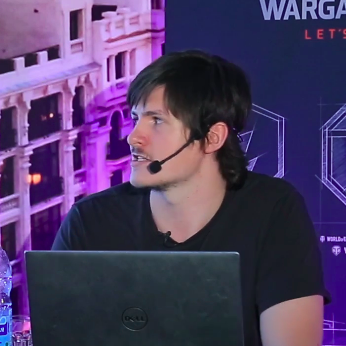
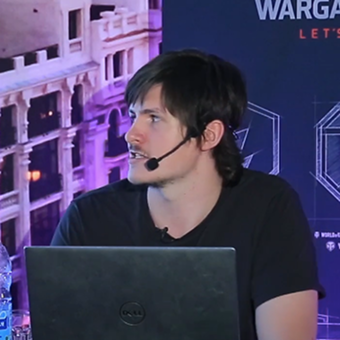
optimize photos

diff --git a/index.html b/index.html
@@ -74,7 +74,7 @@
                 <h2>Meetup Keepers</h2>
                 <div class="three-in-row">
                     <div>
-                        <img src="assets/images/mikalai_saskavets.webp">
+                        <img src="assets/images/mikalai_saskavets.jpg">
                         <span class="keeper-name">Mikalai Saskavets</span>
                         <span class="keeper-role">programm committee member, event moderator</span>
                         <span class="keeper-contacts">
@@ -82,7 +82,7 @@
                         </span>
                     </div>
                     <div>
-                        <img src="assets/images/sergey_khaletskiy.png">
+                        <img src="assets/images/sergey_khaletskiy.jpg">
                         <span class="keeper-name">Sergey Khaletskiy</span>
                         <span class="keeper-role">programm committee member, event moderator</span>
                         <span class="keeper-contacts">
@@ -90,7 +90,7 @@
                         </span>
                     </div>
                     <div>
-                        <img src="assets/images/andrei_sviridov.png">
+                        <img src="assets/images/andrei_sviridov.jpg">
                         <span class="keeper-name">Andrei Sviridov</span>
                         <span class="keeper-role">programm committee member, event moderator</span>
                         <span class="keeper-contacts">
@@ -98,7 +98,7 @@
                         </span>
                     </div>
                     <div>
-                        <img src="assets/images/tatsiana_tsygan.jpg">
+                        <img src="assets/images/tatsiana_tsygan_opt.jpg">
                         <span class="keeper-name">Tatsiana Tsygan</span>
                         <span class="keeper-role">
                             <span>main contact person</span>
